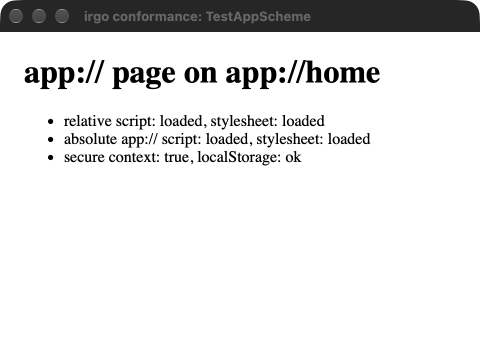
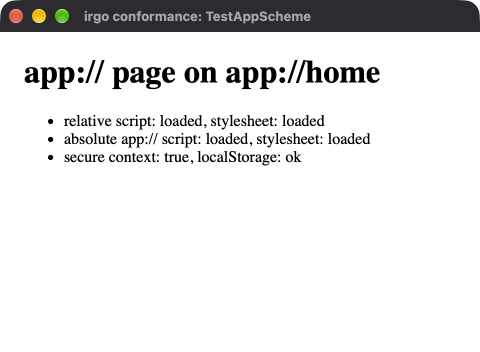
GLAZE-STATUS: Mac 40 passed incl. drive (real OS input) tests

Changed region(s): [[0.0, 0.0312, 0.6562, 0.0625]]

diff --git a/docs/GLAZE-STATUS.md b/docs/GLAZE-STATUS.md
@@ -8,16 +8,16 @@ hand. Each run replaces only its own section. Every row is one test of
 `examples/conformance`, from its test2json events; what each checks is in its
 comment, and how the suite runs is in [CONTRIBUTING.md](CONTRIBUTING.md#does-glaze-work).
 
-<!-- glaze-status:mac commit=d9e99a8bb5feba64cc04d051b986563301971db0 examples-dirty=false glaze=v0.0.61 native=github.com/joeblew999/native@v0.1.16-0.20260930085437-93363ebf8e8e -->
+<!-- glaze-status:mac commit=6eccd485752fb4c69c5f8148a9011fca70d06b0c examples-dirty=false glaze=v0.0.61 native=github.com/joeblew999/native@v0.1.16-0.20260930085437-93363ebf8e8e -->
 ## On the Mac — YES: 40 passed, 1 skipped
 
-- when: 2026-10-01 07:43 +0700, took 20s
+- when: 2026-10-01 07:44 +0700, took 20s
 - platform: darwin/arm64 (this machine, natively)
-- this repository: commit `d9e99a8bb5fe`
+- this repository: commit `6eccd485752f`, **with uncommitted changes**
 - glaze v0.0.61 (released)
 - native from the fork github.com/joeblew999/native@v0.1.16-0.20260930085437-93363ebf8e8e (go.mod requires v0.1.15 and replaces it)
-- full log: `~/Library/Application Support/irgo-winvm/logs/glaze-mac-20261001-074308.log`
-- test2json events: `~/Library/Application Support/irgo-winvm/logs/glaze-mac-20261001-074308.json`
+- full log: `~/Library/Application Support/irgo-winvm/logs/glaze-mac-20261001-074444.log`
+- test2json events: `~/Library/Application Support/irgo-winvm/logs/glaze-mac-20261001-074444.json`
 - screenshots: 14 of the 14 tests that open a window took one — see [Screenshots](#screenshots)
 
 | test | result | first message |
@@ -114,7 +114,7 @@ comment, and how the suite runs is in [CONTRIBUTING.md](CONTRIBUTING.md#does-gla
 
 Every test that opens a window photographs it at the moment that shows what it checked — the page loaded, the tray up, the menu installed, the dialog open — and the picture is recorded with the run it came from. A capture that failed says why instead of showing a picture; a black or one-colour frame counts as failed. How each is taken is in `examples/conformance/shots_test.go`.
 
-- Mac: 2026-10-01 07:43 +0700, commit `d9e99a8bb5fe`, darwin/arm64 (this machine, natively)
+- Mac: 2026-10-01 07:44 +0700, commit `6eccd485752f`, darwin/arm64 (this machine, natively)
 - Windows: 2026-09-30 15:43 +0700, commit `f16189091b5e`, windows/arm64, VM irgo-win11 (through app-create -gui)
 
 | test | Mac | Windows |
